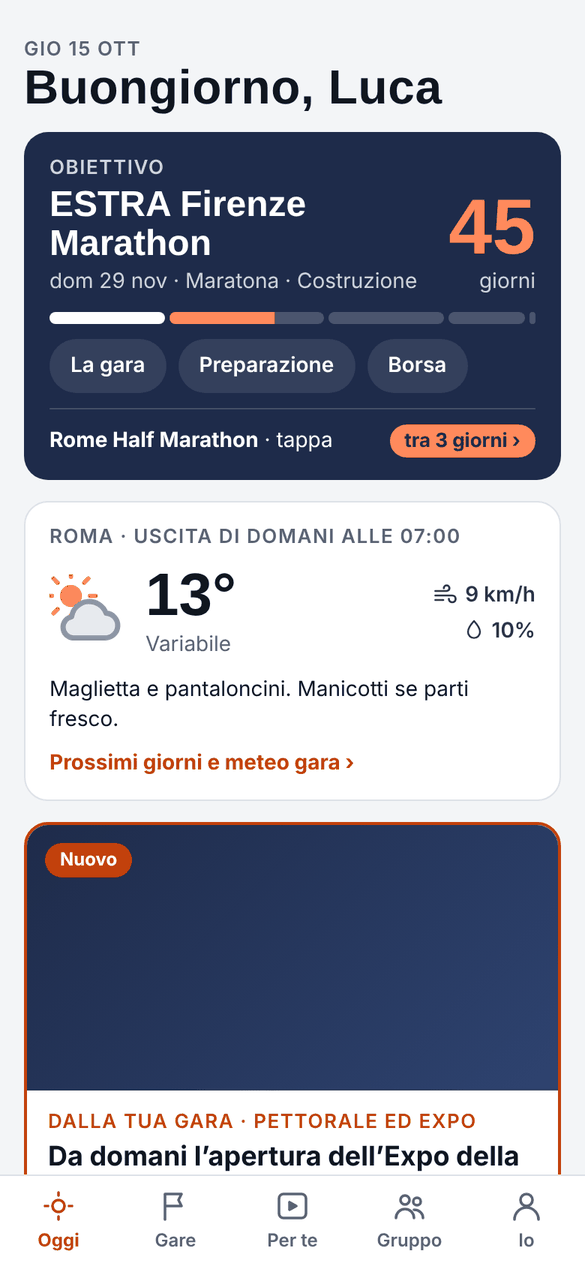
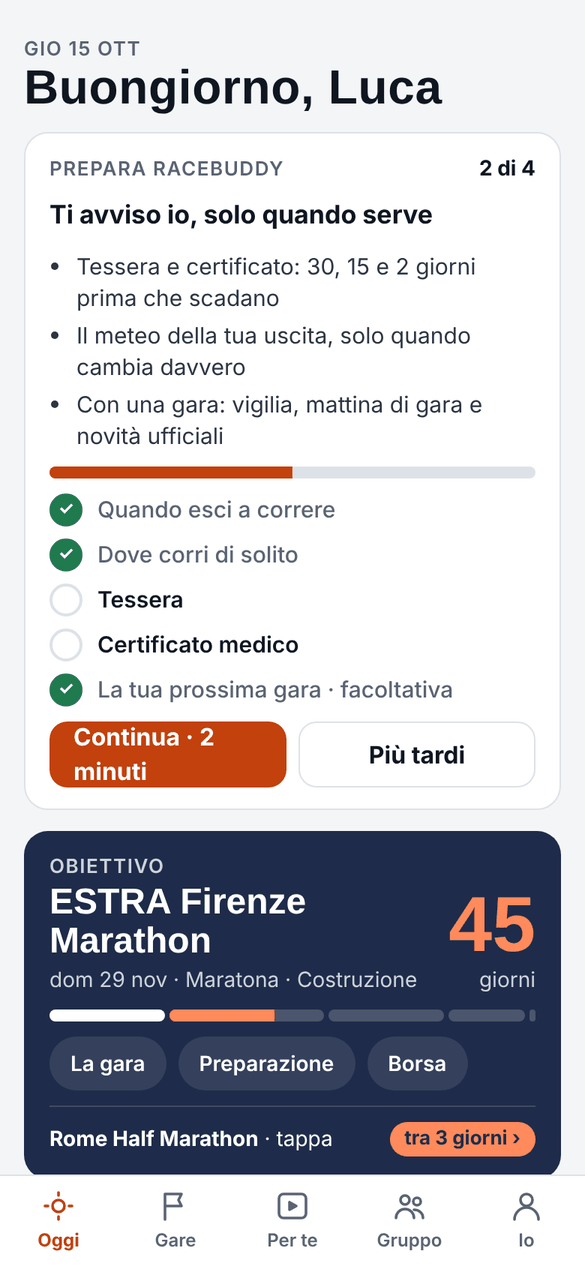
Docs UI: Prepara RaceBuddy (scheda, funnel, notifiche) e schermate aggiornate
Claude-Session: https://claude.ai/code/session_01KdQimF878rXLepmNQzPhds

diff --git a/docs/ui.md b/docs/ui.md
@@ -2,7 +2,8 @@
 
 Le schermate principali dell'app a larghezza telefono (390 px), tema chiaro.
 Dati di esempio: Luca, Roma, uscita alle 7:00; obiettivo Firenze Marathon (29/11), tappa Rome Half Marathon (18/10);
-meteo simulato. Le foto degli articoli non sono caricate. Le schermate sono state prese il 15 ottobre 2026.
+meteo simulato. Le foto degli articoli non sono caricate e i campi di ora e data hanno il formato del browser di prova
+(su un telefono italiano: 07:00 e gg/mm/aaaa). Le schermate sono state prese il 15 ottobre 2026.
 
 Come è fatta dietro: [architettura.md](architettura.md).
 
@@ -18,6 +19,25 @@ blu notte per i riquadri in evidenza; tema chiaro e scuro automatici.
 
 Al primo avvio, rivedibile da Io: cinque schermate dimostrative (La preparazione, Meteo e avvisi, La gara, Il gruppo,
 Partiamo). Si scorrono con il dito o con "Avanti"; "Salta" porta all'app.
+
+## Prepara RaceBuddy
+
+| Scheda in Oggi | Un passo del funnel | Traguardo: notifiche |
+|---|---|---|
+| <img src="img/ui/prepara-card.png" width="220" alt="Scheda Prepara RaceBuddy in Oggi"> | <img src="img/ui/prepara-ora.png" width="220" alt="Funnel: ora di uscita"> | <img src="img/ui/prepara-notifiche.png" width="220" alt="Funnel: attiva le notifiche"> |
+
+In cima a Oggi, finché manca qualcosa: spiega cosa ti arriva con le notifiche e conta i passi (**x di 4**).
+"Inizia" apre il funnel `#/prepara`, un passo per schermata senza barra in basso:
+
+1. A che ora esci a correre (decide l'ora del messaggio del mattino)
+2. Dove corri di solito (GPS o città: serve per il meteo dell'uscita)
+3. Tessera: tipo e scadenza
+4. Certificato medico: scadenza
+5. Notifiche: il traguardo, con i vantaggi concreti (su iPhone fuori dalla Home, le istruzioni per aggiungerla)
+6. La tua prossima gara: facoltativa
+
+I passi già fatti si saltano. "Più tardi" nasconde la scheda per 3 giorni. Con i quattro passi fatti e le notifiche
+spente resta una scheda più piccola: "ultimo passo, attiva le notifiche". Numero e foto dei documenti restano in Io.
 
 ## Oggi
 
